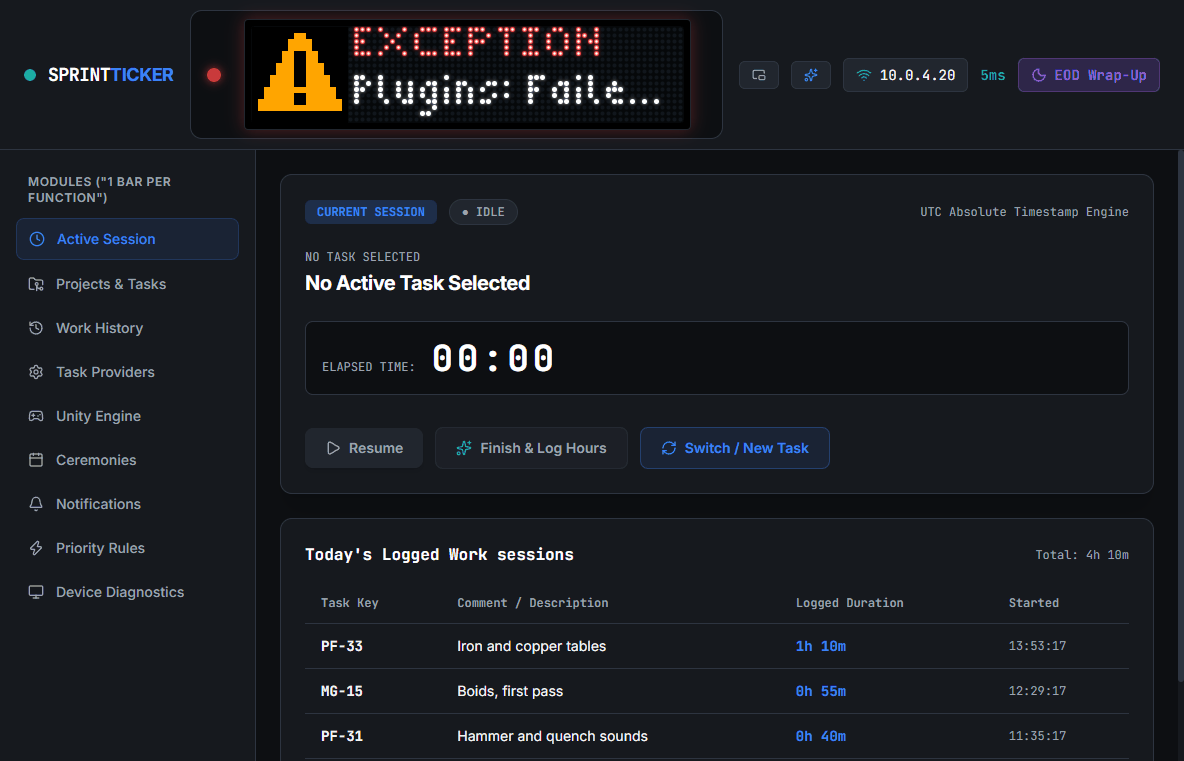
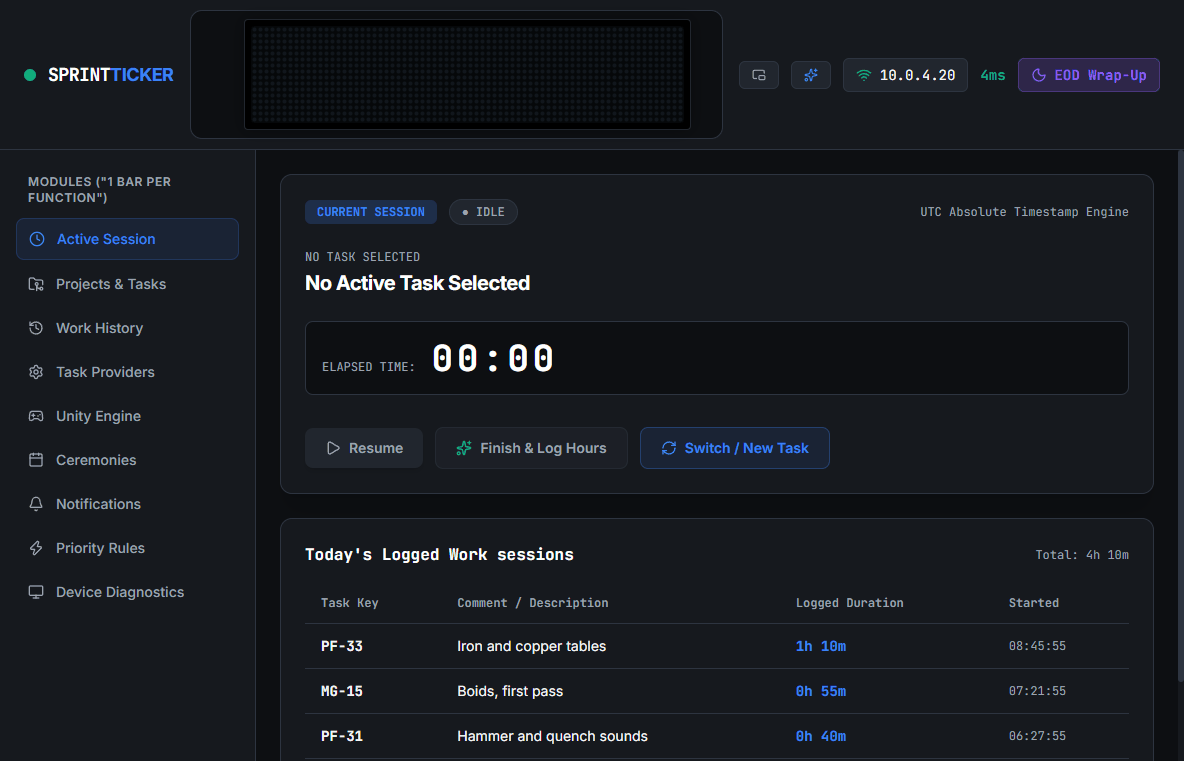
Fix the project filter when nothing is assigned
With no project holding an open task, the Projects tab listed only the
selected project: it was kept on screen, so it counted as "something
left" and the show-everything fallback never fired. And an ad-hoc task
stays in progress for good, so the ad-hoc project always had one and
was the whole list whenever nothing was assigned.

- The fallback is now decided before the kept projects, and without the
  ad-hoc project; lists open on assigned work, not on ad-hoc
- The switch says "none has a task: showing all" when it hides nothing
  for that reason, so a ticked box over the full list does not read as
  broken
- ADHOC_PROJECT_ID in shared/, replacing three literals in main
- Tests for each case, failing on the previous rule
- Docs images recaptured with Unity closed: a real editor's exception
  is gone from the session, Unity and tracking pictures, and the
  projects picture shows the switch
- USER-GUIDE, CHANGELOG, test counts

diff --git a/packages/desktop-app/src/shared/project-filter.ts b/packages/desktop-app/src/shared/project-filter.ts
@@ -1,4 +1,5 @@
 import { ProjectDTO } from './dtos';
+import { ADHOC_PROJECT_ID } from './adhoc-project';
 
 /**
  * "Only my projects": which projects the lists offer.
@@ -28,37 +29,53 @@ export interface ProjectFilterResult<T> {
   visible: T[];
   /** How many the switch hid, so a list can say so rather than look short. */
   hiddenCount: number;
+  /**
+   * The switch is on but found nothing assigned, so everything is listed.
+   * Said beside the switch: a ticked box that changes nothing reads as broken.
+   */
+  nothingAssigned: boolean;
+}
+
+/** An unknown count counts as open: hiding on a guess would lose a project. */
+function hasOpenTask(project: ProjectDTO): boolean {
+  return project.openTaskCount === undefined || project.openTaskCount > 0;
 }
 
 /**
  * The projects to list.
  *
  * - A project whose open-task count is unknown is kept: a provider's own
- *   project list carries no count, and hiding on a guess would lose one.
+ *   project list carries no count.
  * - `keepIds` stay whatever they hold: the project selected in the Projects
  *   tab, so one just created does not vanish before it has a task, and the
  *   running session's.
- * - If the switch would leave nothing, everything is listed. That is a first
- *   launch, or a provider that has not synced yet, and an empty picker there
- *   reads as data lost.
+ * - If no project the provider gave has an open task, everything is listed.
+ *   That is a first launch, a provider not synced yet, or nothing assigned to
+ *   the user right now, and an empty or one-project picker there reads as
+ *   data lost. Decided before `keepIds` and without the ad-hoc project: the
+ *   kept project used to count as "something left", so the Projects tab
+ *   showed that one project alone; and an ad-hoc task stays in progress for
+ *   good -- finishing one never marks it done -- so the ad-hoc project
+ *   always has one, and was the whole list whenever nothing was assigned.
  */
 export function filterProjectsWithTasks<T extends ProjectDTO>(
   projects: readonly T[],
   enabled: boolean,
   keepIds: readonly string[] = []
 ): ProjectFilterResult<T> {
-  if (!enabled) return { visible: [...projects], hiddenCount: 0 };
-  const visible = projects.filter(
-    p => p.openTaskCount === undefined || p.openTaskCount > 0 || keepIds.includes(p.id)
-  );
-  if (visible.length === 0) return { visible: [...projects], hiddenCount: 0 };
-  return { visible, hiddenCount: projects.length - visible.length };
+  if (!enabled) return { visible: [...projects], hiddenCount: 0, nothingAssigned: false };
+  if (!projects.some(p => p.id !== ADHOC_PROJECT_ID && hasOpenTask(p))) {
+    return { visible: [...projects], hiddenCount: 0, nothingAssigned: projects.length > 0 };
+  }
+  const visible = projects.filter(p => hasOpenTask(p) || keepIds.includes(p.id));
+  return { visible, hiddenCount: projects.length - visible.length, nothingAssigned: false };
 }
 
 /**
  * The project a list opens on: the first with an open task, else the first.
- * An unknown count counts as open, as above. Empty string for no projects.
+ * The ad-hoc project's open task is no reason to open on it, as above. An
+ * unknown count counts as open. Empty string for no projects.
  */
 export function firstProjectWithTasks(projects: readonly ProjectDTO[]): string {
-  return (projects.find(p => (p.openTaskCount ?? 1) > 0) ?? projects[0])?.id ?? '';
+  return (projects.find(p => p.id !== ADHOC_PROJECT_ID && hasOpenTask(p)) ?? projects[0])?.id ?? '';
 }

diff --git a/packages/desktop-app/tests/project-filter.test.ts b/packages/desktop-app/tests/project-filter.test.ts
@@ -1,6 +1,7 @@
 import { describe, it, expect } from 'vitest';
 import { filterProjectsWithTasks, firstProjectWithTasks } from '../src/shared/project-filter';
 import { ProjectDTO } from '../src/shared/dtos';
+import { ADHOC_PROJECT_ID } from '../src/shared/adhoc-project';
 
 const project = (id: string, openTaskCount?: number): ProjectDTO => ({ id, key: id, name: id, openTaskCount });
 
@@ -46,12 +47,60 @@ describe('filterProjectsWithTasks', () => {
 
     expect(result.visible).toEqual(empty);
     expect(result.hiddenCount).toBe(0);
+    expect(result.nothingAssigned).toBe(true);
+  });
+
+  it('FilterProjectsWithTasks_NothingAssignedButAProjectKept_StillListsEverything', () => {
+    // The selected project used to count as "something left", so the
+    // Projects tab showed that one project alone, with the rest hidden.
+    const empty = [project('A', 0), project('B', 0), project('C', 0)];
+
+    const result = filterProjectsWithTasks(empty, true, ['B']);
+
+    expect(result.visible).toEqual(empty);
+    expect(result.nothingAssigned).toBe(true);
+  });
+
+  it('FilterProjectsWithTasks_OnlyTheAdHocProjectHasTasks_ListsEverything', () => {
+    // An ad-hoc task stays in progress for good, so the ad-hoc project always
+    // has one; it used to be the whole list whenever nothing was assigned.
+    const list = [project(ADHOC_PROJECT_ID, 4), project('A', 0), project('B', 0)];
+
+    const result = filterProjectsWithTasks(list, true);
+
+    expect(result.visible).toEqual(list);
+    expect(result.nothingAssigned).toBe(true);
+  });
+
+  it('FilterProjectsWithTasks_AdHocAndAssignedWork_ListsBoth', () => {
+    const list = [project(ADHOC_PROJECT_ID, 4), project('A', 2), project('B', 0)];
+
+    const result = filterProjectsWithTasks(list, true);
+
+    expect(result.visible.map(p => p.id)).toEqual([ADHOC_PROJECT_ID, 'A']);
+    expect(result.hiddenCount).toBe(1);
+    expect(result.nothingAssigned).toBe(false);
+  });
+
+  it('FilterProjectsWithTasks_NoProjects_ListsNothingAndClaimsNothing', () => {
+    // "None has a task" beside an empty list would be about nothing.
+    const result = filterProjectsWithTasks([], true);
+
+    expect(result).toEqual({ visible: [], hiddenCount: 0, nothingAssigned: false });
+  });
+
+  it('FilterProjectsWithTasks_Off_NeverSaysNothingIsAssigned', () => {
+    expect(filterProjectsWithTasks([project('A', 0)], false).nothingAssigned).toBe(false);
   });
 });
 
 describe('firstProjectWithTasks', () => {
   it('FirstProjectWithTasks_SomeEmpty_SkipsToTheFirstWithAnOpenTask', () => {
     expect(firstProjectWithTasks([project('A', 0), project('B', 3)])).toBe('B');
+  });
+
+  it('FirstProjectWithTasks_AdHocFirst_OpensOnTheAssignedWork', () => {
+    expect(firstProjectWithTasks([project(ADHOC_PROJECT_ID, 4), project('A', 0), project('B', 1)])).toBe('B');
   });
 
   it('FirstProjectWithTasks_AllEmpty_FallsBackToTheFirst', () => {

diff --git a/packages/desktop-app/tests/renderer/project-filter.test.tsx b/packages/desktop-app/tests/renderer/project-filter.test.tsx
@@ -34,6 +34,14 @@ describe('TaskSelectionModal project filter', () => {
     expect(screen.getByText('(2 hidden)')).toBeTruthy();
   });
 
+  it('Open_NoProjectsAtAll_SaysSoAndClaimsNothingAboutTasks', async () => {
+    installElectronApi({ getProjects: vi.fn().mockResolvedValue([]) });
+    render(<TaskSelectionModal isOpen onClose={vi.fn()} projects={[]} onSelectTask={vi.fn()} />);
+
+    expect(await screen.findByText(/No active projects registered/)).toBeTruthy();
+    expect(screen.queryByText(/showing all/)).toBeNull();
+  });
+
   it('Untick_Switch_ListsEveryProjectAndStoresTheChoice', async () => {
     const bridge = installElectronApi({ getProjects: vi.fn().mockResolvedValue(PROJECTS) });
     render(modal());
@@ -115,6 +123,22 @@ describe('ProjectTaskManagerView project filter', () => {
     expect(list.getByText('Sprint')).toBeTruthy();
     expect(list.queryByText('Empty')).toBeNull();
     expect(list.getByText('(2 hidden)')).toBeTruthy();
+  });
+
+  it('Mount_NothingAssigned_ListsEveryProjectAndSaysWhy', async () => {
+    // The selected project used to count as "something left", so this showed
+    // the first project alone with "(2 hidden)" -- every other project gone.
+    const empty = PROJECTS.map(p => ({ ...p, openTaskCount: 0 }));
+    installElectronApi({ getProjects: vi.fn().mockResolvedValue(empty) });
+    render(<ProjectTaskManagerView />);
+
+    const list = await sidebar();
+
+    expect(list.getByText('Projects (3)')).toBeTruthy();
+    expect(list.getByText('Empty')).toBeTruthy();
+    expect(list.getByText('Finished')).toBeTruthy();
+    expect(list.getByText('(none has a task: showing all)')).toBeTruthy();
+    expect(list.queryByText(/hidden/)).toBeNull();
   });
 
   it('SelectedProject_SwitchTurnedOn_StaysListedWhileEmpty', async () => {

diff --git a/packages/desktop-app/src/renderer/components/ProjectFilterToggle.tsx b/packages/desktop-app/src/renderer/components/ProjectFilterToggle.tsx
@@ -5,14 +5,18 @@ interface ProjectFilterToggleProps {
   onChange: (enabled: boolean) => void;
   /** How many projects the switch is hiding right now. */
   hiddenCount: number;
+  /** On, but no project has an open task, so every project is listed. */
+  nothingAssigned: boolean;
 }
 
 /**
  * The "only projects with tasks" switch, as the Projects tab and the task
  * picker both show it. It says how many projects it hides, so a short list
- * does not read as projects lost.
+ * does not read as projects lost -- and when it hides nothing because no
+ * project has a task, it says that, so a ticked box with the whole list under
+ * it does not read as the switch being broken.
  */
-export const ProjectFilterToggle: React.FC<ProjectFilterToggleProps> = ({ enabled, onChange, hiddenCount }) => (
+export const ProjectFilterToggle: React.FC<ProjectFilterToggleProps> = ({ enabled, onChange, hiddenCount, nothingAssigned }) => (
   <label
     className="flex items-center gap-2 text-xs text-text-secondary cursor-pointer select-none"
     title="Hides projects with no open task. With the default task scope, those are the tasks assigned to you. The bar's own picker follows the same setting."
@@ -26,6 +30,9 @@ export const ProjectFilterToggle: React.FC<ProjectFilterToggleProps> = ({ enable
     <span>Only projects with tasks</span>
     {enabled && hiddenCount > 0 && (
       <span className="text-text-secondary/70">({hiddenCount} hidden)</span>
+    )}
+    {enabled && nothingAssigned && (
+      <span className="text-text-secondary/70">(none has a task: showing all)</span>
     )}
   </label>
 );

diff --git a/docs/index.html b/docs/index.html
@@ -679,8 +679,10 @@
       and turning it off lists them all. It is one setting: the task picker shows
       the same switch, and the bar&#39;s own picker follows it. The project you have
       selected stays listed even when it is empty, so one you have just created does
-      not vanish before its first task. If the switch would leave nothing to list
-      -- before the first sync -- every project is listed.</p>
+      not vanish before its first task. If no project has a task for you -- before
+      the first sync, or on a day nothing is assigned to you -- every project is
+      listed, and the switch says so: <em>none has a task: showing all</em>. Ad-hoc work
+      does not count for this, since an ad-hoc task stays in progress for good.</p>
       <p>The cache is what the app and the bar read. If it looks stale, <strong>Sync Now</strong> in
       Task Providers refetches it.</p>
       <h4>📊 Work History</h4>
@@ -1954,7 +1956,7 @@
       <code>isValidDeviceHost</code> live.</p>
       <hr>
       <h3 id="architecture-testing">8. Testing</h3>
-      <p>Vitest, 1748 tests across 92 files, in two projects: <code>main</code> in Node for
+      <p>Vitest, 1757 tests across 92 files, in two projects: <code>main</code> in Node for
       <code>src/main</code> and <code>src/shared</code>, and <code>renderer</code> in jsdom for React smoke tests
       (<code>tests/renderer/</code>). The renderer&#39;s tests mount every view against a mock
       bridge typed as the whole <code>IElectronAPI</code>, so bridge drift fails the typecheck.

diff --git a/packages/desktop-app/tests/hardware-decoder.test.ts b/packages/desktop-app/tests/hardware-decoder.test.ts
@@ -10,6 +10,7 @@ import { BusyBarDriver } from '../src/main/hardware/busybar-driver';
 import { DisplayRenderer } from '../src/main/hardware/display-renderer';
 import { InputDecoder } from '../src/main/hardware/input-decoder';
 import { ONLY_PROJECTS_WITH_TASKS_KEY } from '../src/shared/project-filter';
+import { ADHOC_PROJECT_ID } from '../src/shared/adhoc-project';
 
 describe('Hardware Bridge & InputDecoder Unit Tests', () => {
   let dbConn: DatabaseConnection;
@@ -903,6 +904,20 @@ describe('Hardware Bridge & InputDecoder Unit Tests', () => {
         press('rotate_right');
 
         expect(shownProjects).toEqual(['Beta', 'Beta']);
+      });
+
+      it('HandleHardwareInput_OnlyAdHocWorkOpen_ListsEveryProject', () => {
+        // An ad-hoc task stays in progress for good. With nothing assigned,
+        // the ad-hoc project used to be the only project the bar offered.
+        taskRepo.saveTask({ id: 'T2', projectId: 'P2', key: 'B-1', title: 'Waiting', status: 'done' });
+        projectRepo.saveProject({ id: ADHOC_PROJECT_ID, key: ADHOC_PROJECT_ID, name: 'Ad-hoc' });
+        taskRepo.createAdHocTask('Code review');
+        openPicker();
+        press('rotate_right');
+        press('rotate_right');
+        press('rotate_right');
+
+        expect(shownProjects).toEqual(['Ad-hoc', 'Alpha', 'Beta', 'Gamma']);
       });
 
       it('HandleHardwareInput_SwitchOff_ListsEveryProject', () => {

diff --git a/packages/desktop-app/src/renderer/views/Tasks/ProjectTaskManagerView.tsx b/packages/desktop-app/src/renderer/views/Tasks/ProjectTaskManagerView.tsx
@@ -254,7 +254,7 @@ export const ProjectTaskManagerView: React.FC = () => {
   const activeProject = projects.find(p => p.id === selectedProjectId);
   // The selected project stays listed whatever it holds -- one just created
   // has no task yet -- and so does the running session's.
-  const { visible: listedProjects, hiddenCount } = filterProjectsWithTasks(
+  const { visible: listedProjects, hiddenCount, nothingAssigned } = filterProjectsWithTasks(
     projects,
     onlyWithTasks,
     [selectedProjectId, activeSession?.projectId ?? ''].filter(Boolean)
@@ -301,7 +301,7 @@ export const ProjectTaskManagerView: React.FC = () => {
           <div className="flex items-center justify-between border-b border-border-dark pb-3">
             <h3 className="text-sm font-bold text-white uppercase tracking-wider">Projects ({listedProjects.length})</h3>
           </div>
-          <ProjectFilterToggle enabled={onlyWithTasks} onChange={setOnlyWithTasks} hiddenCount={hiddenCount} />
+          <ProjectFilterToggle enabled={onlyWithTasks} onChange={setOnlyWithTasks} hiddenCount={hiddenCount} nothingAssigned={nothingAssigned} />
 
           <div className="space-y-2 max-h-[500px] overflow-y-auto pr-1">
             {listedProjects.map(proj => (

diff --git a/packages/desktop-app/src/renderer/components/TaskSelectionModal.tsx b/packages/desktop-app/src/renderer/components/TaskSelectionModal.tsx
@@ -45,7 +45,7 @@ const TaskSelectionDialog: React.FC<TaskSelectionModalProps> = ({
   const [customTitle, setCustomTitle] = useState<string>('');
   const [selectedIndex, setSelectedIndex] = useState<number>(0);
   const [onlyWithTasks, setOnlyWithTasks] = useOnlyProjectsWithTasks();
-  const { visible: listedProjects, hiddenCount } = filterProjectsWithTasks(activeProjects, onlyWithTasks);
+  const { visible: listedProjects, hiddenCount, nothingAssigned } = filterProjectsWithTasks(activeProjects, onlyWithTasks);
 
   useEffect(() => {
     if (!window.electronAPI?.getProjects) return;
@@ -163,7 +163,7 @@ const TaskSelectionDialog: React.FC<TaskSelectionModalProps> = ({
                 <p className="text-xs text-text-secondary">
                   Choose an active project to track time against:
                 </p>
-                <ProjectFilterToggle enabled={onlyWithTasks} onChange={setOnlyWithTasks} hiddenCount={hiddenCount} />
+                <ProjectFilterToggle enabled={onlyWithTasks} onChange={setOnlyWithTasks} hiddenCount={hiddenCount} nothingAssigned={nothingAssigned} />
               </div>
 
               <div className="space-y-2 max-h-72 overflow-y-auto pr-1">

diff --git a/packages/desktop-app/src/main/db/repositories/task-repository.ts b/packages/desktop-app/src/main/db/repositories/task-repository.ts
@@ -3,6 +3,7 @@ import { DatabaseConnection } from '../database-connection';
 import { createId, IdPrefix } from '../id-generator';
 import { TOMBSTONE_PROJECT_ID } from '../migrations';
 import { TaskDTO } from '../../../shared/dtos';
+import { ADHOC_PROJECT_ID } from '../../../shared/adhoc-project';
 
 /** True for a `tasks` row that some worklog references. */
 const HAS_WORKLOGS = 'EXISTS (SELECT 1 FROM worklogs w WHERE w.task_id = tasks.id)';
@@ -178,7 +179,7 @@ export class TaskRepository {
     const taskId = createId(IdPrefix.ADHOC_TASK);
     const adHocTask: TaskDTO = {
       id: taskId,
-      projectId: 'ADHOC',
+      projectId: ADHOC_PROJECT_ID,
       key: fallbackKey,
       title: customTitle,
       status: 'in_progress'

diff --git a/packages/desktop-app/src/main/providers/adhoc-provider.ts b/packages/desktop-app/src/main/providers/adhoc-provider.ts
@@ -1,5 +1,6 @@
 import { ITaskProvider, WorklogPayload } from './task-provider-interface';
 import { ProjectDTO, TaskDTO } from '../../shared/dtos';
+import { ADHOC_PROJECT_ID } from '../../shared/adhoc-project';
 
 /**
  * Local task provider adapter mapping custom ad-hoc entries to fallback ticket ID (MISC-1).
@@ -17,7 +18,7 @@ export class AdHocProvider implements ITaskProvider {
   }
 
   public async getProjects(): Promise<ProjectDTO[]> {
-    return [{ id: 'ADHOC', key: 'ADHOC', name: 'Custom Ad-Hoc / Misc Overhead' }];
+    return [{ id: ADHOC_PROJECT_ID, key: ADHOC_PROJECT_ID, name: 'Custom Ad-Hoc / Misc Overhead' }];
   }
 
   public async getTasks(projectId: string): Promise<TaskDTO[]> {

diff --git a/packages/desktop-app/src/main/db/repositories/project-repository.ts b/packages/desktop-app/src/main/db/repositories/project-repository.ts
@@ -1,6 +1,7 @@
 import { DatabaseConnection } from '../database-connection';
 import { retireTasks } from './task-repository';
 import { ProjectDTO } from '../../../shared/dtos';
+import { ADHOC_PROJECT_ID } from '../../../shared/adhoc-project';
 
 /**
  * Repository layer for managing projects in SQLite.
@@ -146,7 +147,7 @@ export class ProjectRepository {
       if (!db || !db.open) return;
 
       // Ensure ADHOC is never deleted
-      const safeProjectIds = [...activeProjectIds, 'ADHOC'];
+      const safeProjectIds = [...activeProjectIds, ADHOC_PROJECT_ID];
 
       // We need to dynamically build the query parameters
       const placeholders = safeProjectIds.map(() => '?').join(',');

diff --git a/packages/desktop-app/src/shared/adhoc-project.ts b/packages/desktop-app/src/shared/adhoc-project.ts
@@ -1,0 +1,9 @@
+/**
+ * The built-in project ad-hoc tasks are filed under.
+ *
+ * Four places name it: the task repository files every ad-hoc task here, the
+ * sync prune spares it, the ad-hoc provider lists it, and "only projects with
+ * tasks" leaves it out when deciding whether anything is assigned to the user.
+ * A literal in each was the duplicated-constant hazard of CLAUDE.md section 3.
+ */
+export const ADHOC_PROJECT_ID = 'ADHOC';
